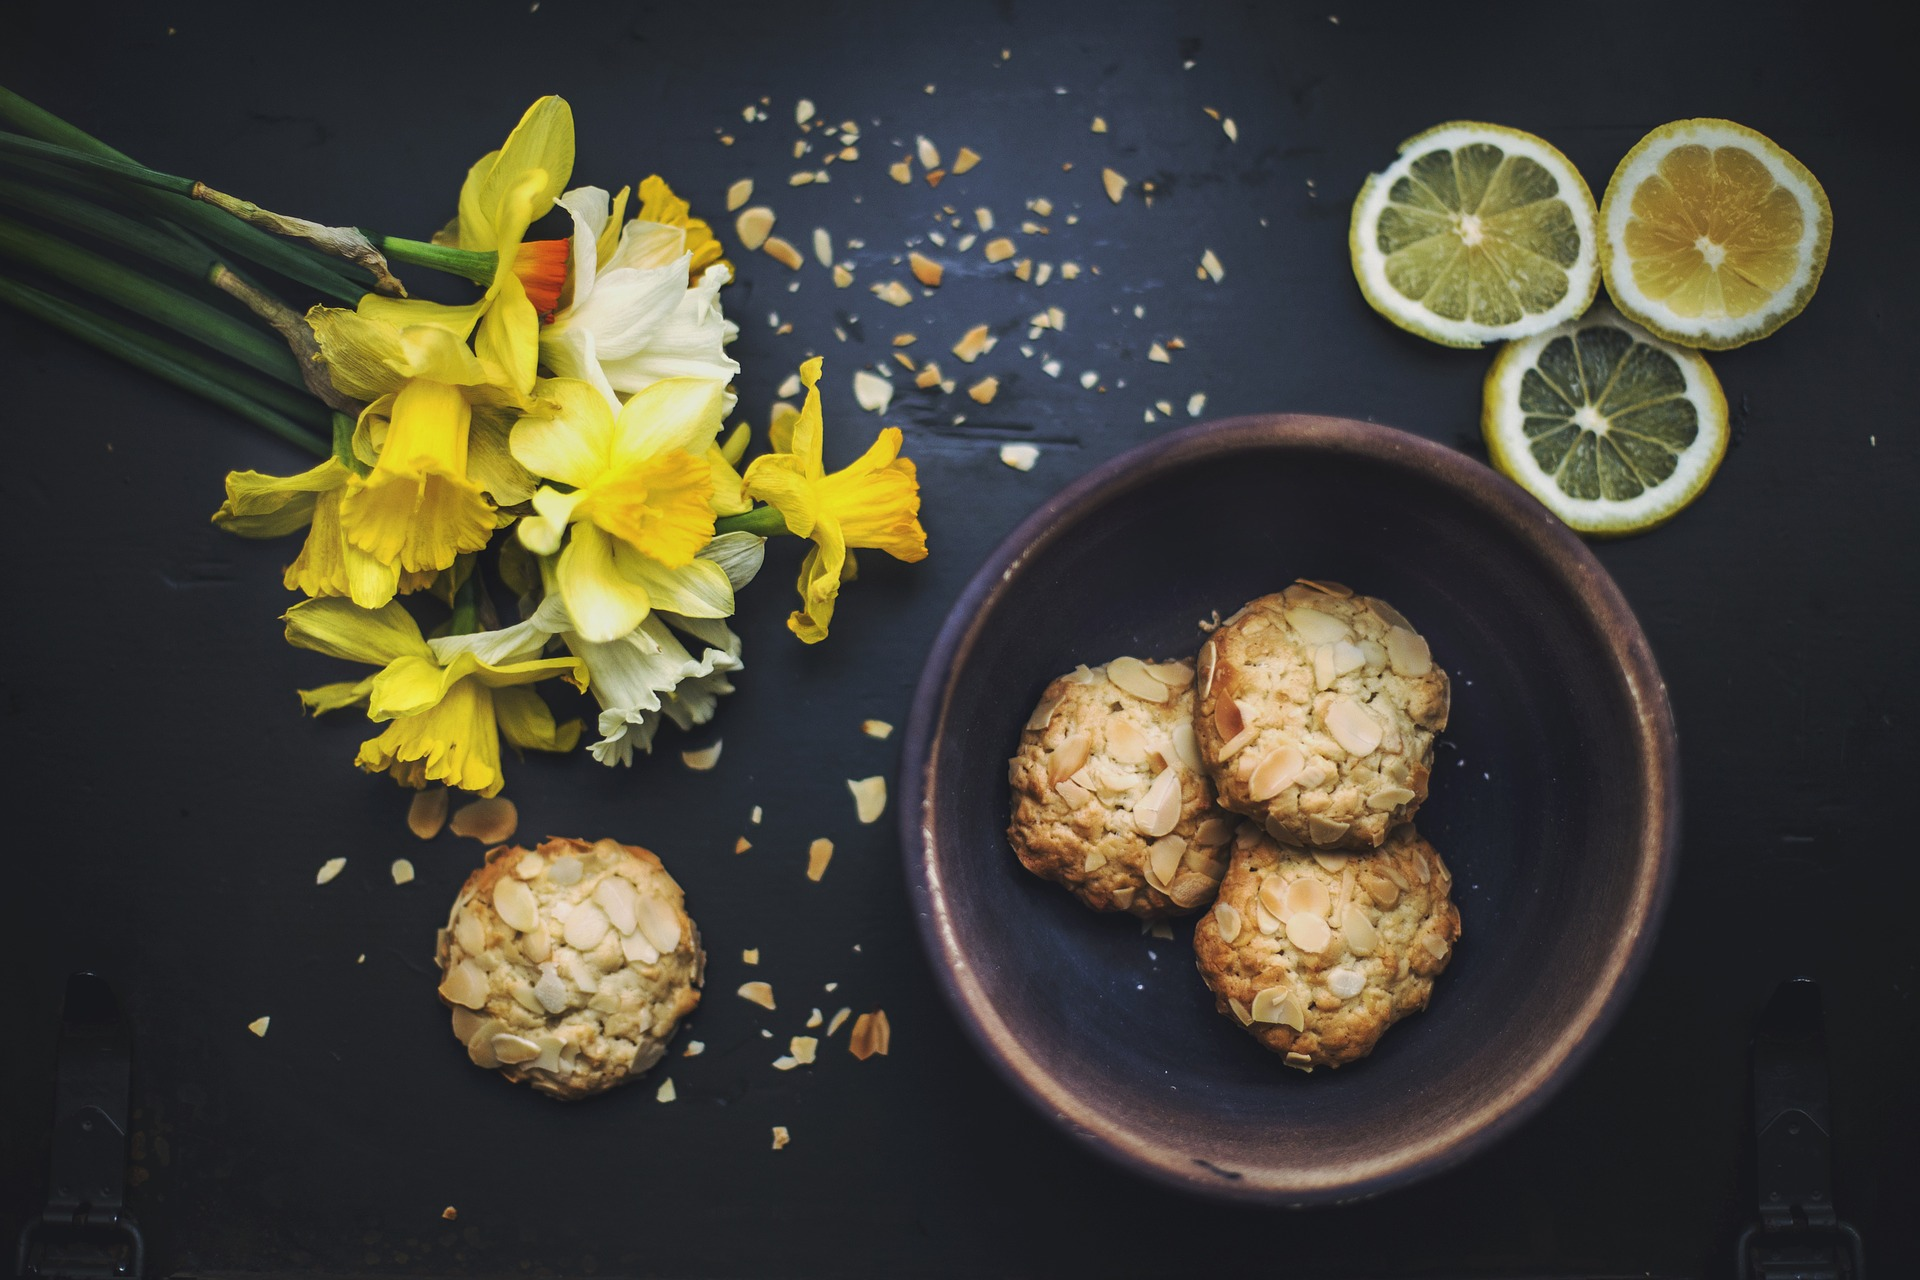
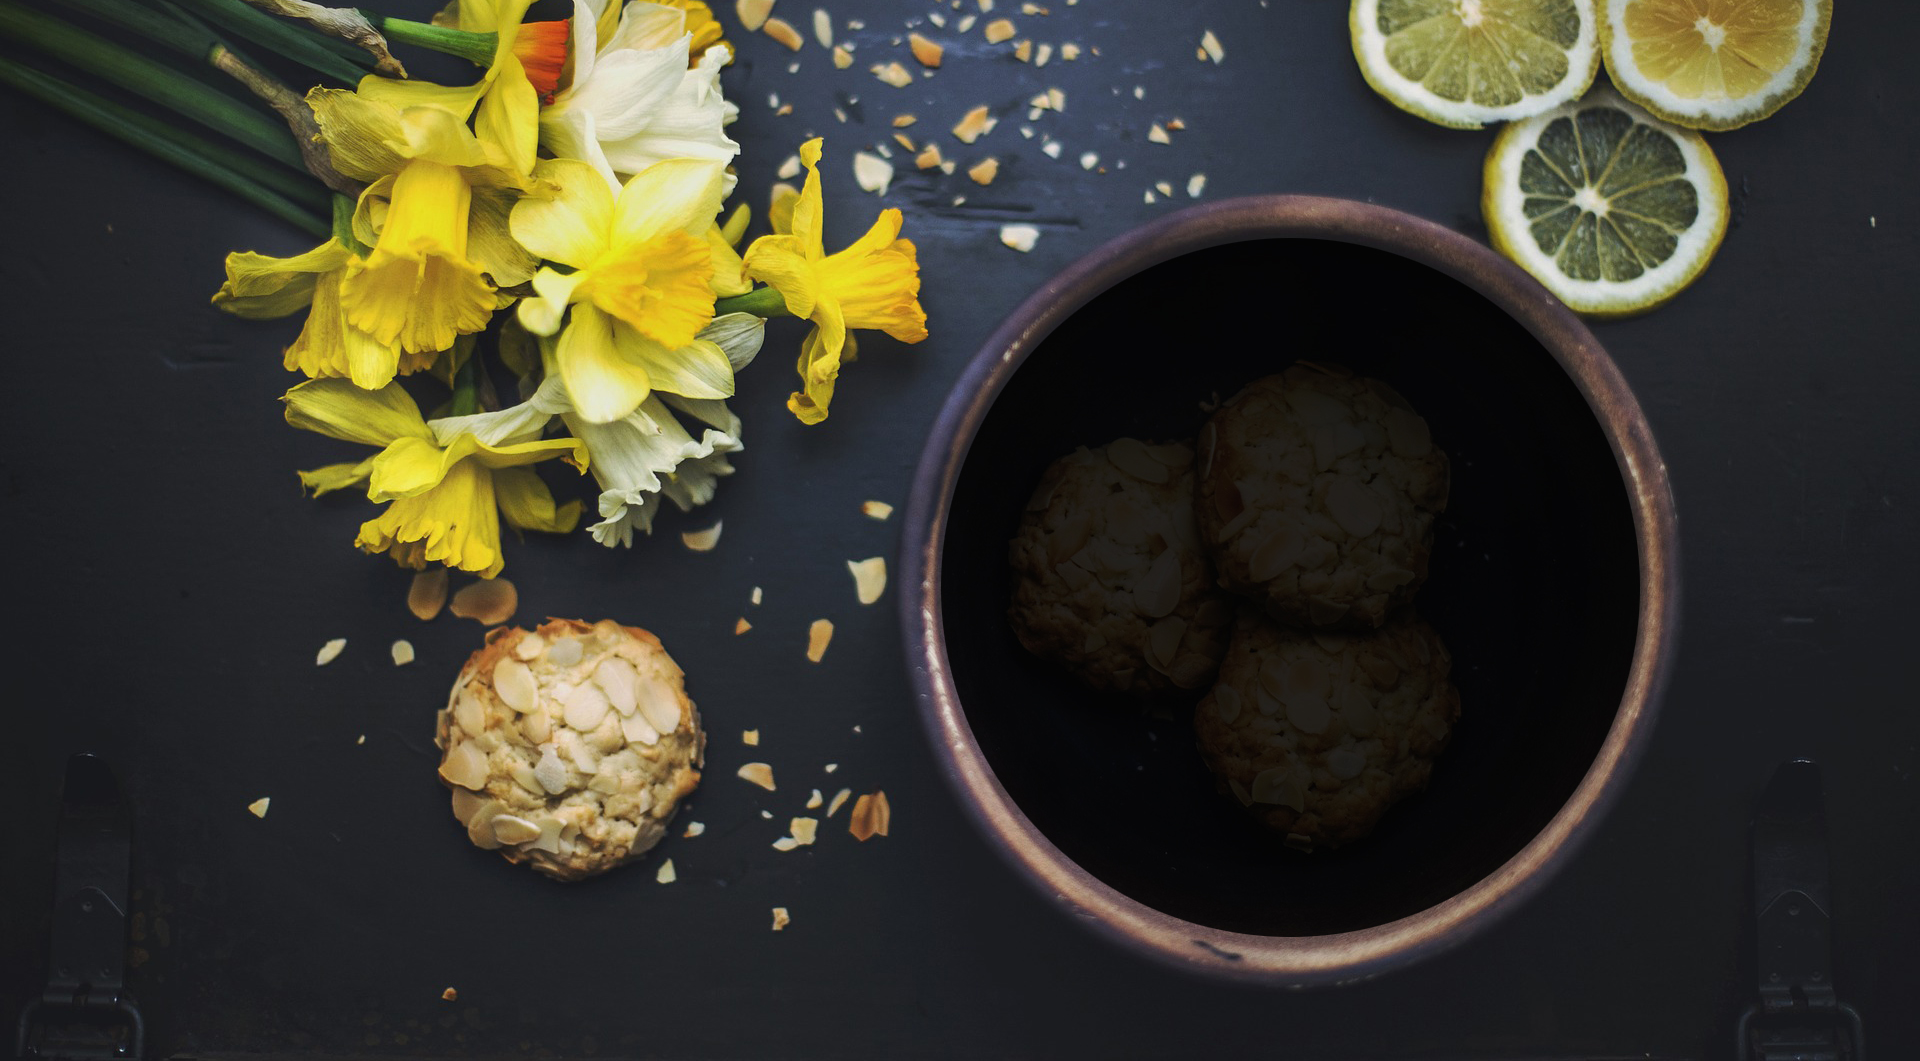
Landing Img Xs
- setting up the landing of phone screens

diff --git a/css/my-styles.css b/css/my-styles.css
@@ -39,7 +39,7 @@ h1, h2, h3, h4, h5, h6 {
 .nav a {
     text-transform: uppercase;
     font-family: "Arimo", "Helvetica", sans-serif;
-    color: #fff!important;
+    color:  #525e08 !important;
     padding: 5px !important;
     padding-left: 10px !important;
     opacity: 0.9;
@@ -50,19 +50,11 @@ h1, h2, h3, h4, h5, h6 {
 }
 
 .nav a:hover {
-    color: #525e08 !important;
+    color: #fff !important;
 }
 
 /* ====== LANDING ======
    ===================== */
-
-/*#landing {
-    background: url(../img/open.jpg);
-    background-size: cover;
-    background-position: bottom;
-    background-repeat: no-repeat; 
-    padding: 253px;
-}*/
 
 .bg {
     position: absolute;
@@ -72,17 +64,20 @@ h1, h2, h3, h4, h5, h6 {
 }
 
 #landing h1 {
-    margin-top: 200px;
-    margin-left: 65%;
-    width: 116px;
+    margin-top: 280px;
+    margin-left: 60%;
+    width: 100px;
+    font-size: 100px;
+    color: rgba(255, 255, 255, 0.7);
 }
 
 #landing button {
-    color: ;
+    
     background-color: rgba(82, 94, 8, 0.8);
     border: 1px solid rgba(82, 94, 8, 0.8);
-    margin-left: 65%;
+    margin-left: 64%;
     padding: 10px 30px;
     text-transform: uppercase;
     letter-spacing: 0.5em;
-    margin-top: 30px;
+    margin-top: 20px;
+}

diff --git a/index.html b/index.html
@@ -23,6 +23,7 @@
 
     <!-- My Styles -->
     <link href="css/my-styles.css" rel="stylesheet">
+    <link href="css/xs-styles.css" rel="stylesheet" media="(max-width: 700px)"/>
 
     <!-- HTML5 shim and Respond.js for IE8 support of HTML5 elements and media queries -->
     <!-- WARNING: Respond.js doesn't work if you view the page via file:// -->
@@ -76,8 +77,8 @@
     <!-- LANDING START -->
     <section id="landing" class="container-fluid full-screen-intro">
         <div class="row">
-            <img class="bg" src="img/open.jpg">
-            <img class="bg visible-xs" src="img/establishment.jpg">
+            <img class="bg" src="img/meal-843230_1920.jpg">
+            <!-- <img class="bg visible-xs" src="img/establishment.jpg"> -->
             <div class="col-md-12">
                 <h1>Where Bland Is Banned</h1>
             <button>visit us</button>

diff --git a/css/xs-styles.css b/css/xs-styles.css
@@ -1,0 +1,17 @@
+/* ====== LANDING ======
+   ===================== */
+
+#landing h1 {
+    margin-top: 470px;
+    margin-left: 1%;
+    width: 100px;
+    font-size: 80px;
+    color: rgba(255, 255, 255, 0.8);
+}
+
+#landing button {
+    
+    background-color: rgba(82, 94, 8, 0.9);
+    border: 1px solid rgba(82, 94, 8, 0.9);
+    margin-left: 1%;
+}
